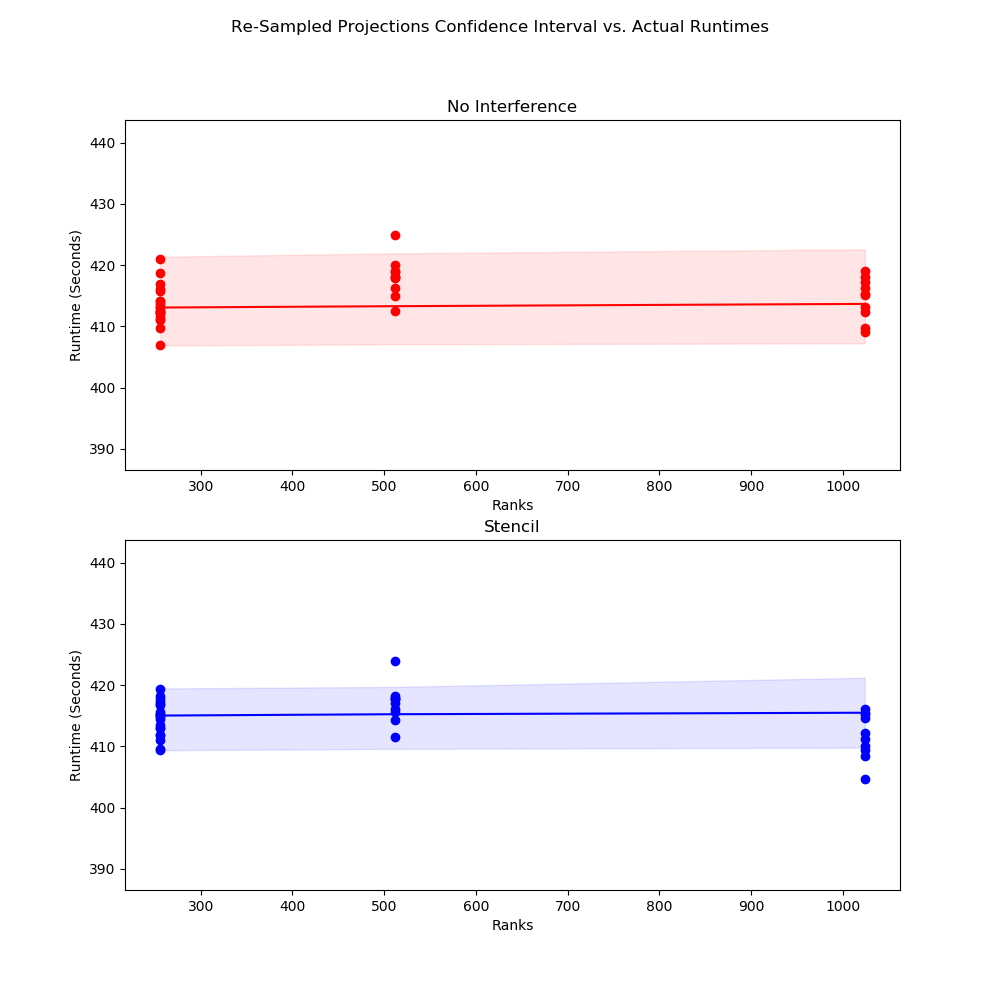
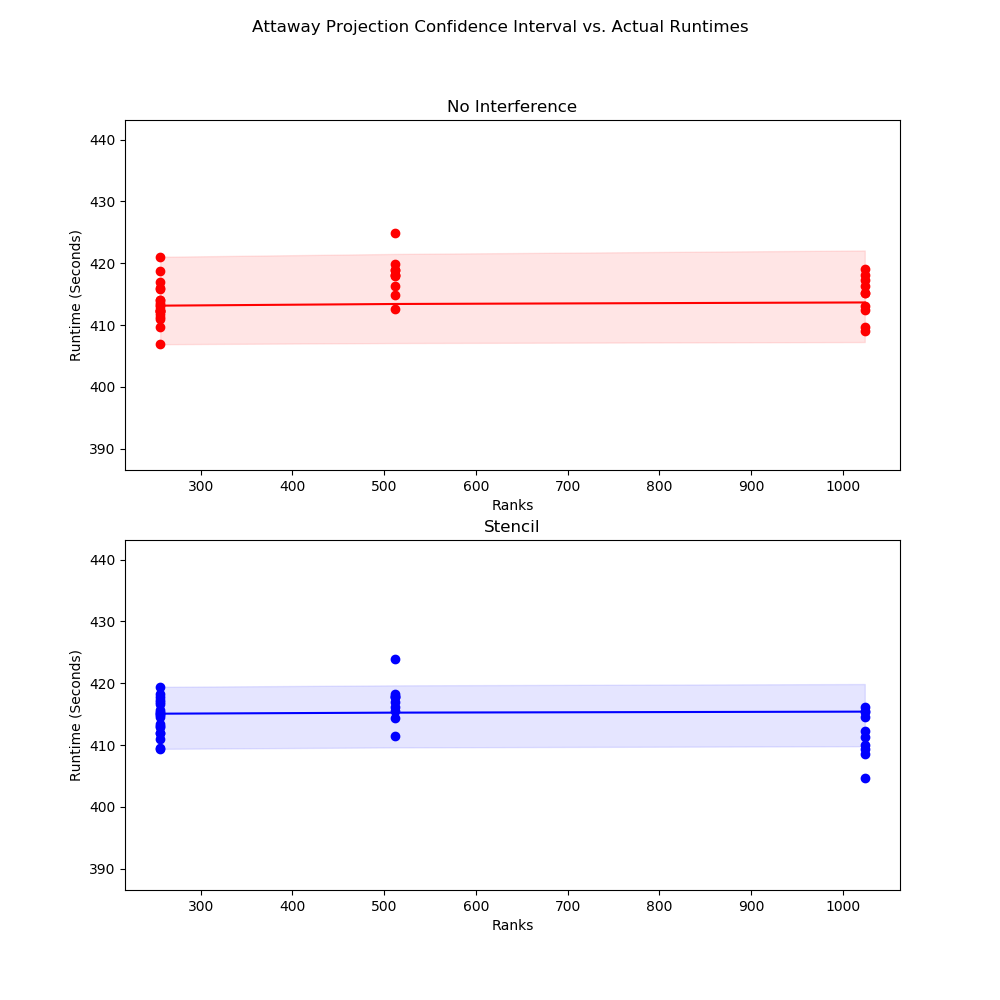
Attaway figure updates

diff --git a/Results/attaway.py b/Results/attaway.py
@@ -216,7 +216,7 @@ def generatePredictionFigure( df_All, workload, baseRanks, CI, fname ):
     workloadData = coriData[ ( coriData['Workload'] == workload ) & ( coriData['Ranks'] == baseRanks )]
 
     kvals = np.array( [1, 2, 4] )
-    iterations = 1000
+    iterations = 100
 
     MILLION = 1000000
     eps = 10 ** -5
@@ -249,6 +249,8 @@ def generatePredictionFigure( df_All, workload, baseRanks, CI, fname ):
             runtimeData = workloadData[workloadData['Stencil'] == 0]['Runtime']
         else:
             runtimeData = workloadData[workloadData['Stencil'] != 0]['Runtime']
+
+        runtimeData = runtimeData.sort_values()
 
         minRuntime = min( runtimeData )
         medianRuntime = runtimeData.iloc[ int( len( runtimeData ) / 2  ) ]
@@ -339,7 +341,7 @@ def generatePredictionFigure( df_All, workload, baseRanks, CI, fname ):
             if myworkload == workload:
                 axs[0].plot( int( ranks ), currentRunTime, 'o', color='red' )
 
-        if not ( workload == 'hpcg' or workload == 'spmv' ):
+        if not ( workload == 'hpcg' or workload == 'lammps' ):
             if label == 'Stencil':
                 if myworkload == workload:
                     axs[1].plot( int( ranks ), currentRunTime, 'o', color='blue' )

diff --git a/Results/cori.py b/Results/cori.py
@@ -251,6 +251,8 @@ def generatePredictionFigure( df_All, workload, baseRanks, CI, fname ):
         else:
             runtimeData = workloadData[workloadData['Stencil'] != 0]['Runtime']
 
+        runtimeData = runtimeData.sort_values()
+
         minRuntime = min( runtimeData )
         medianRuntime = runtimeData.iloc[ int( len( runtimeData ) / 2  ) ]
         maxRuntime = max( runtimeData )
